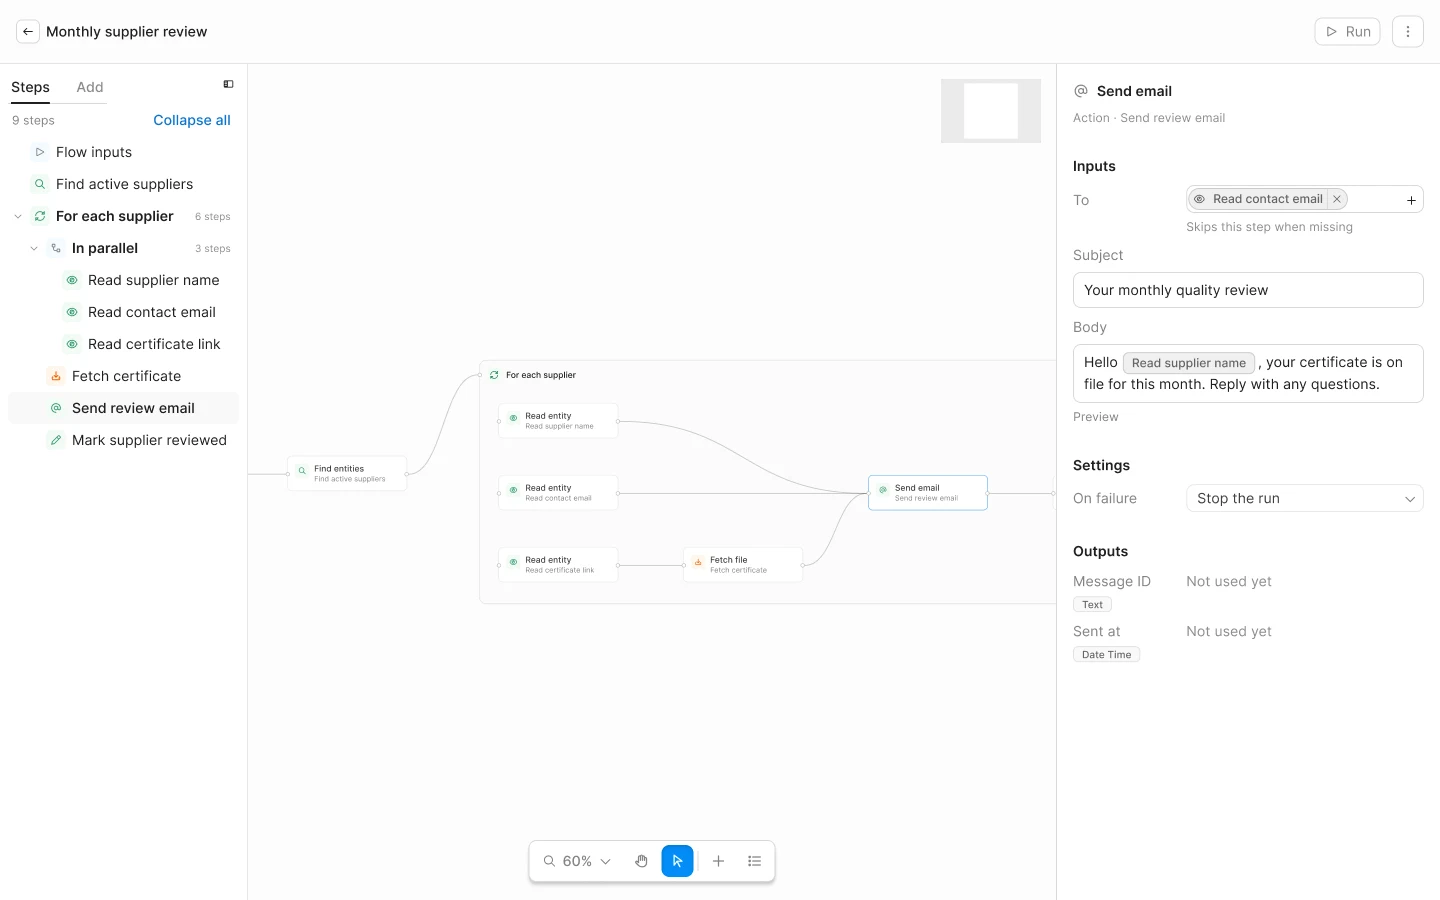
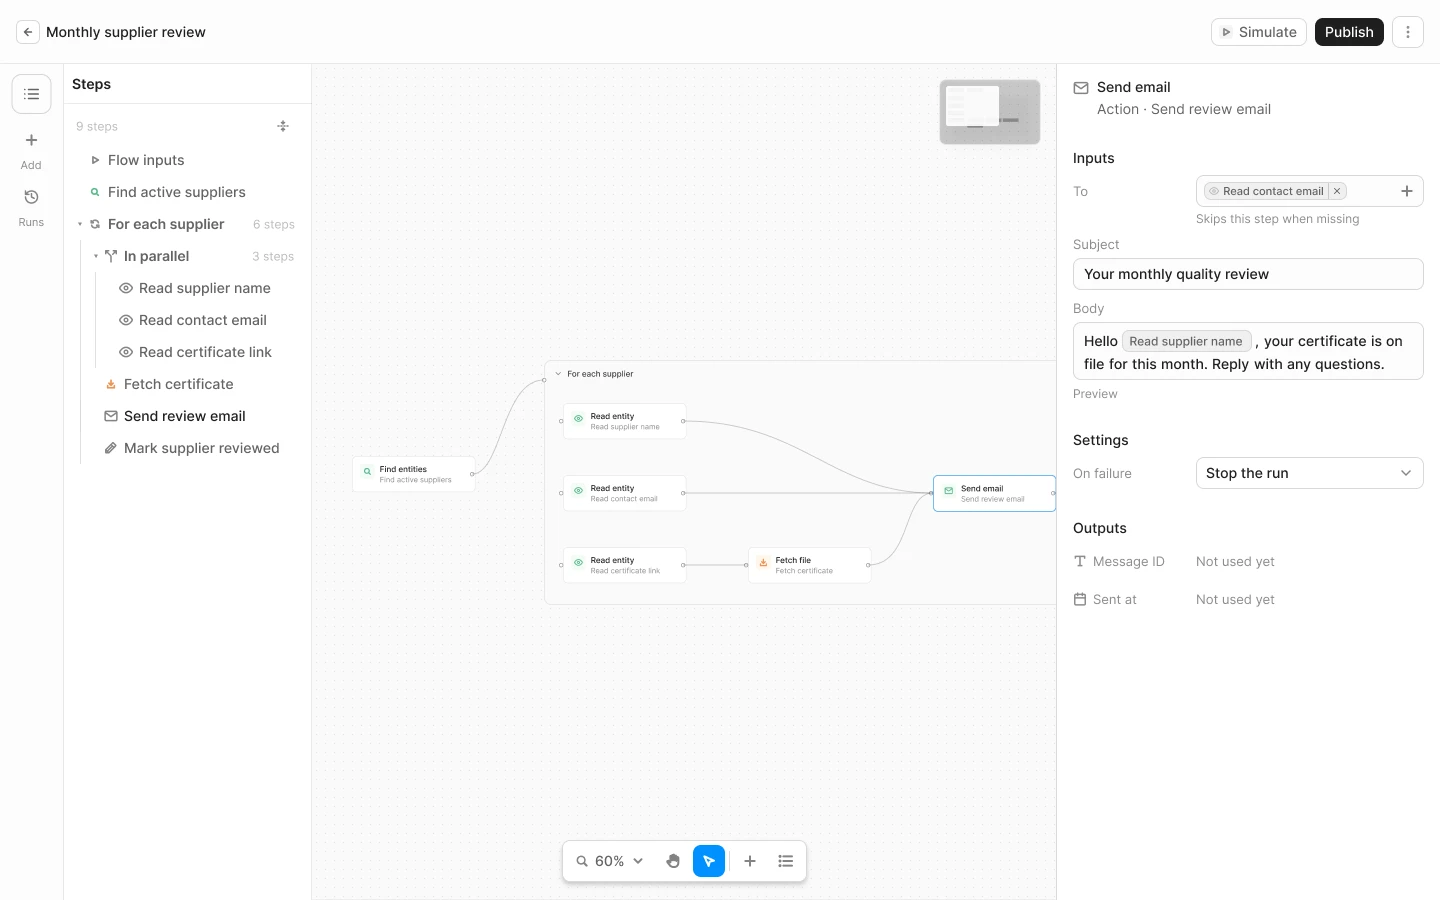
Flows editor: J1.11, J2.9 and J2.10 on the current template
Points the registry at the rebuilt Figma frames (970:16, 970:190,
970:299) and re-exports them. Re-exports J2.13 now that its menu lists
the prototype's types, and takes its tag from Figma.

diff --git a/libs/@hashintel/petrinaut/flows-editor-prototype/src/screens.ts b/libs/@hashintel/petrinaut/flows-editor-prototype/src/screens.ts
@@ -161,7 +161,7 @@ export const figmaScreens: FigmaScreen[] = [
     id: "J1.11",
     aliases: ["J1.20"],
     name: "Steps tree with groups, large flow · flow: Monthly supplier review",
-    nodeId: "806:63095",
+    nodeId: "970:16",
     section: "J1 · Create a flow and add steps",
     tag: "Waiting",
     why: "parallel steps parked",
@@ -271,7 +271,7 @@ export const figmaScreens: FigmaScreen[] = [
   {
     id: "J2.9",
     name: "Several rows with AND / OR joiners · flow: Untitled flow",
-    nodeId: "806:64821",
+    nodeId: "970:190",
     section: "J2a · Find entities: the query",
     tag: "Ready after fix",
     why: "old screen template: rebuild on the current one (top bar, minimap, sizes)",
@@ -279,7 +279,7 @@ export const figmaScreens: FigmaScreen[] = [
   {
     id: "J2.10",
     name: "Joiner chip menu open · flow: Untitled flow",
-    nodeId: "806:65125",
+    nodeId: "970:299",
     section: "J2a · Find entities: the query",
     tag: "Ready after fix",
     why: "old screen template: rebuild on the current one (top bar, minimap, sizes)",
@@ -304,7 +304,8 @@ export const figmaScreens: FigmaScreen[] = [
     name: "Entity type menu, from earlier steps · flow: Untitled flow",
     nodeId: "955:23195",
     section: "J2b · Pick a value for an input",
-    tag: "Ready",
+    tag: "Ready after fix",
+    why: "first 3–4 values, then Show more",
   },
   {
     id: "J2.13a",
